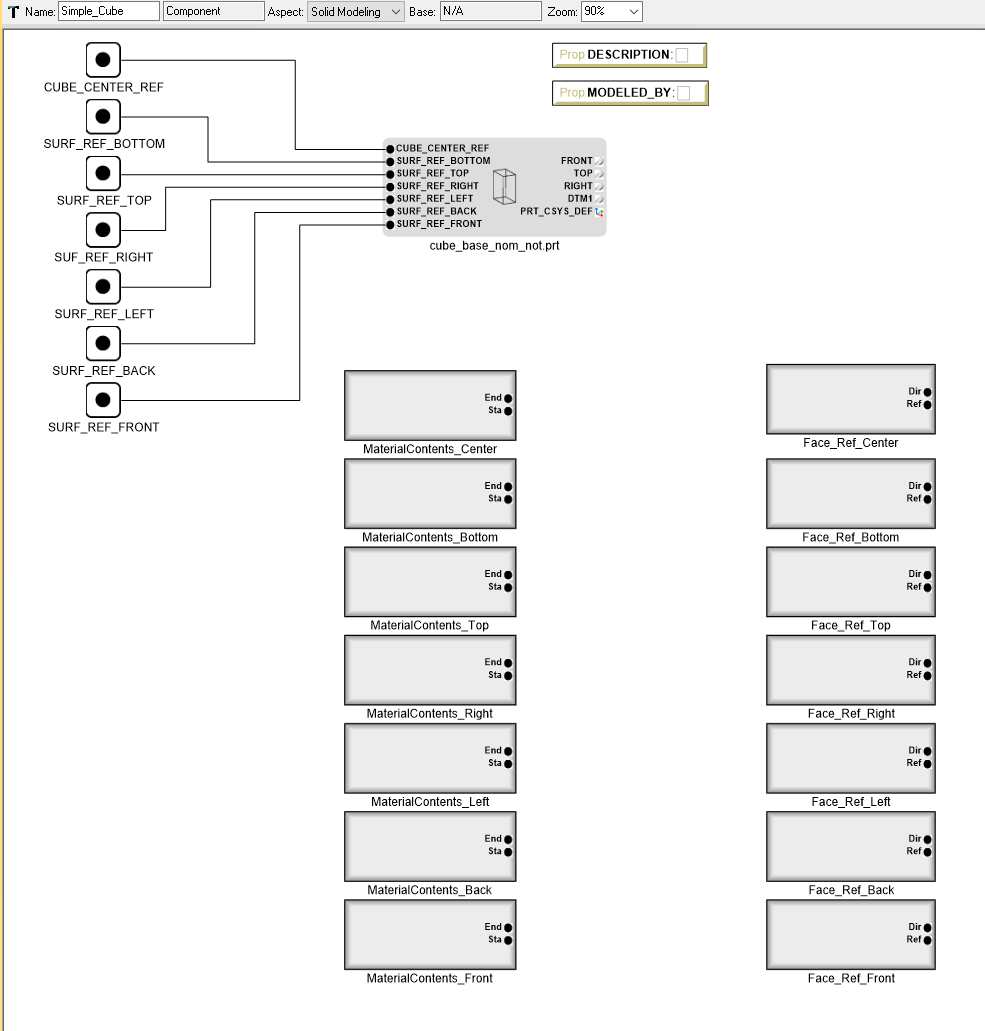
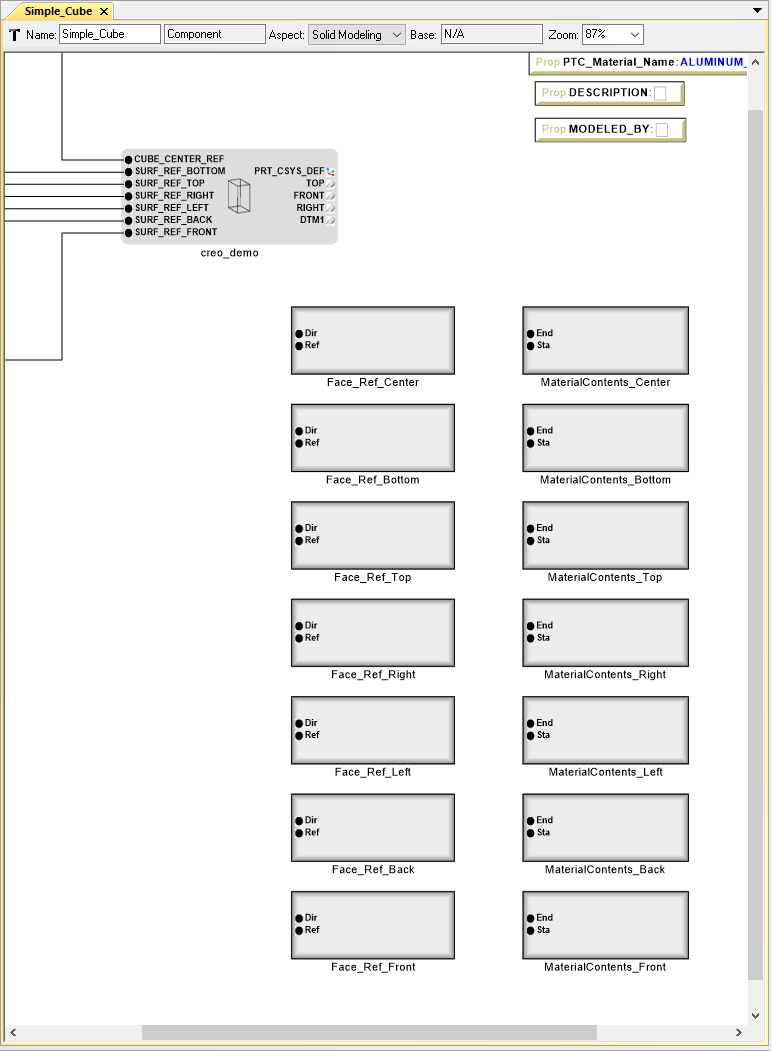
FEA documentation with correct images. The FEA testbench tutorial still needs to be added.

Changed region(s): [[0.0, 0.0, 1.0, 1.0]]

diff --git a/docs/domains/fea.rst b/docs/domains/fea.rst
@@ -6,14 +6,13 @@ Finite-Element Analysis (FEA)
 Overview
 --------
 
-This chapter will serve as a tutorial that demonstrates the Solid
-modeling aspect of CyPhy. We will build a simple FEA testbench using a
+This chapter will serve as a tutorial that demonstrates the FEA analysis aspect of CyPhy. We will build a simple FEA testbench using a
 basic Creo model. This tutorial uses the skills learned in Chapter 3:
 LED Tutorial,so you'll need to have completed that chapter prior to
 attempting this one. Through this tutorial you will learn how to:
 
--  Build Component for a solid model
--  Build Component Assembly for a solid model
+-  Build a Component for a solid model
+-  Build a Component Assembly for a solid model
 -  Build an FEA testbench
 -  Generate results
 -  Perform solid analysis and simulation on testbench
@@ -21,14 +20,13 @@ attempting this one. Through this tutorial you will learn how to:
 Downloading the Tutorial Zip File
 ---------------------------------
 
-To complete this tutorial you will need to download the LED Tutorial
-Model .
+To complete this tutorial you will need to download the FEA analysis tutorial file .
 
 Setting Up Directory
 --------------------
 
 1. Once you've downloaded the tutorial model, unzip it and double-click
-   ``SolidModeling_Tutorial.xme`` to open it in the **GME**.
+   ``FEA_Tutorial.xme`` to open it in **GME**.
 2. Save the project to the default directory (where your ``.xme`` file
    is located), taking note of this directory as you will need to access
    this location later in the tutorial.
@@ -56,7 +54,7 @@ for each one that will test for a parameter. However, Metamorphosys
 tools allow you to run multiple types of analyses by composing just one
 model.
 
-In the Metamorphosys tools, we build a design by instantiating
+In the Metamorphosys tools, we start a design by instantiating
 components and joining their interfaces, yielding a **Component
 Assembly**. We call this process *composition*. From this composed
 design, we can generate new models and run analyses.
@@ -66,27 +64,30 @@ This process breaks down into the following steps:
 
 1. :ref:`create_component`
 2. :ref:`reference_creo`
-3. Add all necessary objects
-4. Make appropriate connections
+3. :ref:`add_objects`
+4. :ref:`make_connections`
 
 .. _create_component:
 
 Creating a New Component
 ^^^^^^^^^^^^^^^^^^^^^^^^
 
+A component houses the Creo part reference, as well as defining objects for the Model. This is the smallest piece of the FEA testbench hierarchy, so it must be developed first.
+
 1.  In your **GME Browser**, open the ***RootFolder*** by left-clicking
     the plus box to the left of the name.
 2.  Right-click **RootFolder -> Insert folder -> Component Assembly**.
 3.  Right-click **RootFolder -> Insert folder -> Components**.
 4.  **Right-click** the **Components folder -> Insert Model ->
-    Component** .
+    Component**.
 5.  Rename **Simple\_Cube**.
 6.  Double left-click **Simple\_Cube** to open the blank component
     canvas.
 7.  Located on the left is the **Part Browser**; left-click the **Solid
     Modeling** tab
 8.  Locate the **Property** object, left-click the image then drag and
-    drop it onto the workspace
+    drop it onto the workspace. 
+	`Note: make sure you have Property, and not complex metric.`
 9.  Click on the word "Property" and rename it as
     **PTC\_Material\_Name**
 10. Click the empy box in the *Property* and type
@@ -94,9 +95,9 @@ Creating a New Component
 
 .. figure:: images/IMAGE_1.png
    :alt: Solid Modeling Demo
-
-   Solid Modeling Demo
    
+This will be used later when defining the material type for the mesher and solver software.
+
 .. _reference_creo:
 
 Reference the Creo Model
@@ -106,27 +107,33 @@ Reference the Creo Model
    the top tool bar
 2. Select the **Add CAD** tile.
 3. Locate and select the Creo versioned file **creo\_demo.prt**.
-
 *Note: This process may take a few seconds as it converts the key
 feature of the Creo Model into objects to be used by GME.*
 
 Now you should see a CADModel that is populated with
 **SURF\_REF\_TOP,SURF\_REF\_BOTTOM, SURF\_REF\_FRONT, SURF\_REF\_BACK,
 SURF\_REF\_LEFT, SURF\_REF\_RIGHT, and CUBE\_CENTER\_REF**. These are
-points on the center of every face of the cube in the Creo model. While
-they are defined in the model, they have not yet been defined in our
+points on the center of every face of the cube in the Creo model. 
+
+.. figure:: images/IMAGE_1_5.png
+   :alt: Solid Modeling Demo
+   
+While they are defined in the model, they have not yet been defined in our
 component.
 
-1. Select the solid modeling tab of the **Part Browser**
+1. Select the `solid modeling` tab of the **Part Browser**
 2. Find the **point** object and drag and drop into the component
    workspace
 3. Repeat this process 6 more times (one for every reference point on
    the model) and rename all points to match the names of the points in
    the model
 4. Enter **connect mode** (Ctrl+2) and connect all these points to their
-   corresponding points in the CADModel
+   corresponding points as **Port Composition** in the CADModel
 
-***ADD IMAGE HERE***
+.. figure:: images/IMAGE2.png
+   :alt: Solid Modeling Demo
+
+.. _add_objects:
 
 Add Necessary Objects
 ^^^^^^^^^^^^^^^^^^^^^
@@ -156,7 +163,8 @@ follwoing image.
 *Note: Decending order is important here as it will make later steps
 much more intuitive.*
 
-***ADD IMAGE HERE***
+.. figure:: images/IMAGE3.png
+   :alt: Solid Modeling Demo
 
 Material Contents
 '''''''''''''''''
@@ -170,7 +178,8 @@ Material Contents
    the *Object Inspector* on the left.
 5. Set all values as shown below
 
-***ADD IMAGE HERE***
+.. figure:: images/IMAGE4.png
+   :alt: Solid Modeling Demo
 
 6. Direct back to the Component, and copy and paste 6 more of these
    edited MaterialContents (one for every point in the model)
@@ -183,7 +192,10 @@ follwoing image.
 *Note: Decending order is important here as it will make later steps
 much more intuitive.*
 
-***ADD IMAGE HERE***
+.. figure:: images/IMAGE5.png
+   :alt: Solid Modeling Demo
+
+.. _make_connections:
 
 Making Connections
 ^^^^^^^^^^^^^^^^^^
@@ -198,10 +210,19 @@ Face Objects
 
 1. Enter into Connection mode (Ctrl+2), and connect the
    **Reference\_Point** "Ref" of **Face\_Ref\_Front** to
-   **SURF\_REF\_FRONT** exposed from the **CADModel**
+   **SURF\_REF\_FRONT** exposed from the **CADModel** 
+   `NOTE: All connections in the component building process will be port composition connections.`
 2. Repeat this step for every *Face Reference* so that they all connect
-   to the CADModel
+   to the same name in the CADModel
 
+.. figure:: images/IMAGE6.png
+   :alt: Solid Modeling Demo
+   
+`NOTE: Make sure all the faces **Normal Direction** option is listed as **Away_Reference_point**`
+
+.. figure:: images/IMAGE6_5.png
+   :alt: Solid Modeling Demo
+   
 We have just assigned a reference to each face so that they connect to a
 real point in the model. Now we need to assign a direction for every
 point so that Patran/Nastran knows where the **normal** of each face
@@ -210,31 +231,38 @@ every vector can be described as **Normal Away From** in the *Object
 Inspector* under the **Attributes** tab. you could just connect the
 *DirectionReferencePoint* of each face to the **Cube\_Center\_Ref**, but
 this would lead to a messy model with many connections. The cleanest way
-to do this is to **Chain** the *DirectionReferencePoints* together. 3.
-Connect the **Direction\_Reference\_Point** "Dir" of
-**Face\_Ref\_Front** to **Direction\_Reference\_Point** "Dir" of
-Face\_Ref\_Back. 4. Repeat this process from "Dir" to "Dir" ascending to
-the last "Face\_Ref\_..." object. 5. Connect the
-**Direction\_Reference\_Point** "Dir" of **Face\_Ref\_Bottom** to
-**Cube\_Center\_Ref** on the CADModel
+to do this is to **Chain** the *DirectionReferencePoints* together.
+
+3. Connect the **Direction\_Reference\_Point** "Dir" of **Face\_Ref\_Front** to **Direction\_Reference\_Point** "Dir" of Face\_Ref\_Back.
+
+
+.. figure:: images/IMAGE7.png
+   :alt: Solid Modeling Demo
+
+4. Repeat this process from "Dir" to "Dir" ascending to the last "Face\_Ref\_..." object.
+5. Connect the **Direction\_Reference\_Point** "Dir" of **Face\_Ref\_Bottom** to **Cube\_Center\_Ref** on the CADModel
 
 The Component should now look like this:
 
-***ADD IMAGE HERE***
+.. figure:: images/IMAGE8.png
+   :alt: Solid Modeling Demo
+   
+We have completed the face reference portion of the Component, and all
+that remains is connecting the MaterialContents.
 
 Material Contents Objects
 '''''''''''''''''''''''''
 
-We have completed the face reference portion of the Component, and all
-that remains is connecting the MaterialContents. We will follow a lot of
-the same steps used to connect the *Faces Objects* but this process is
-slightly different.
+We will follow a lot of the same steps used to connect the *Faces Objects* but this process is slightly different.
 
 1. Enter into Connection mode (Ctrl+2), and connect the **Start Point**
    "Sta" of **MaterialContents\_Front** to **ReferencePoint** "Ref" of
    **Face\_Ref\_Front**
 2. Connect the **End Point** "End" of **MaterialContents\_Front** to
    **Start Point** "Sta" of *MaterialContents\_Back*
+
+.. figure:: images/IMAGE9.png
+   :alt: Solid Modeling Demo
 
 We have now **Chained** the **MaterialContents\_Front** to both
 **Face\_Ref\_Front** and to **MaterialContents\_Back**. Now
@@ -245,19 +273,17 @@ CADModel as shown by the **Chain** from **MaterialContents\_Front** to
 3. Repeat step 2 for each material face so that they are connect as
    shown
 
-***ADD IMAGE HERE***
-
 4. Connect the **Reference\_Point** "Ref" of **Face\_Ref\_Bottom** to
    **Cube\_Center\_Ref** on the CADModel
 
+.. figure:: images/IMAGE10.png
+   :alt: Solid Modeling Demo
+   
 Now all of the MaterialContents objects are connected as needed. They
 reference the same point as their corresponding face object, and point
 in the direct of the previous Material Contents Object to the
 **Cube\_Center\_Ref**
 
-The final Component in CyPhy should look like this:
-
-***ADD IMAGE HERE***
 
 Building the Component Assembly
 -------------------------------
@@ -265,12 +291,37 @@ Building the Component Assembly
 We have successfully created the CyPhy Component which can be used to
 edit the Creo model directly, with added parameters and internal Creo
 relationships. If you recall, the Testbench requires a Referenced
-*Component Assembly* and not a Component directly. This allows for the
-user to test a *Design Space* of models instead of each model
-individually. The follow steps will walk you through the construction of
+**Component Assembly** and not a Component directly. This allows for the
+user to test a *Design Space* (multiple configurations) of a model instead of each configuration
+individually. The following steps will walk you through the construction of
 a CyPhy component assembly
 
-1. 
+1. In the GME Browser, right-click **Component Assemblies -> insert model -> Component Assembly**
+2. Rename This **Cube_Assembly**
+3. Double left-click **Cube_Assembly**** to open the blank component canvas
+4. In the Part Browser under the `All` tab, find the **ComponentRef** and drag and drop into the workspace
+5. In the GME Browser, left click the **Simple_Cube** component and drop it ontop of the **ComponentRef**
+6. Rename the ComponentRef **Simple_Cube_Ref**
+
+.. figure:: images/IMAGE11.png
+   :alt: Solid Modeling Demo
+   
+`NOTE: There must be a blue circle in the top right corner with an R inside, idicating that this is a reference to the component`
+
+We have just created a reference to the Component **Simple\_Cube** inside of our Component Assembly. The object here can be edited by parameters or other objects linked in the assembly or in a testbench so long as they are connected properly. Now that the component is referenced, we need to expose these surface points so that they can be used by the FEA testbench.
+
+6. Redirect back to the **Simple_Cube** component
+7. select all the **Surf_Ref** points created earlier and copy them with `Ctrl+c`
+8. Direct back into **Cube_Assembly** and Paste the points with `Ctrl+v`
+
+We have copied over all the necessary points while also keeping the same order, saving us time in the future. 
+
+9. Connect all the points to thier reference points in the ComponentReference
+
+.. figure:: images/IMAGE12.png
+   :alt: Solid Modeling Demo
+
+We have now exposed the surface reference points of the Creo model through the **Component Reference** in the **Component Assembly**. This allows us to reference these points directly in our FEA testbench. Now that both the Component and Component Assembly are built, it is time to create the FEA testbench.
 
 Building the Testbench
 ----------------------
